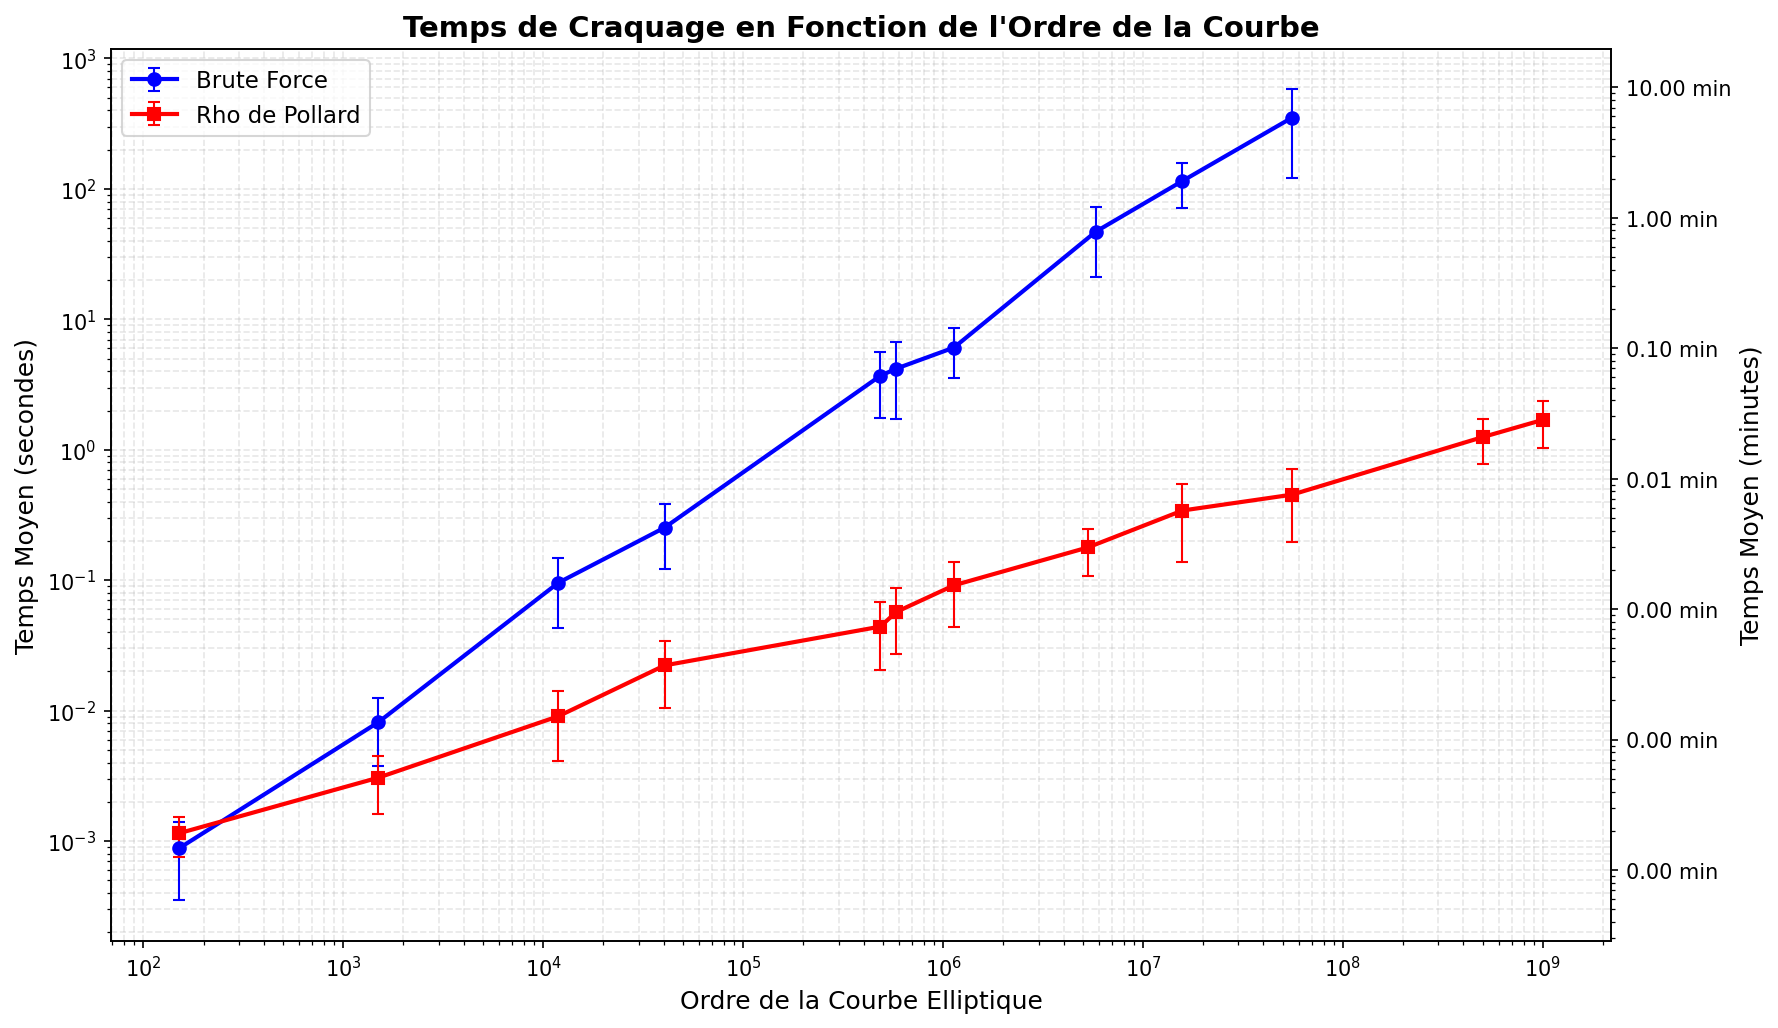
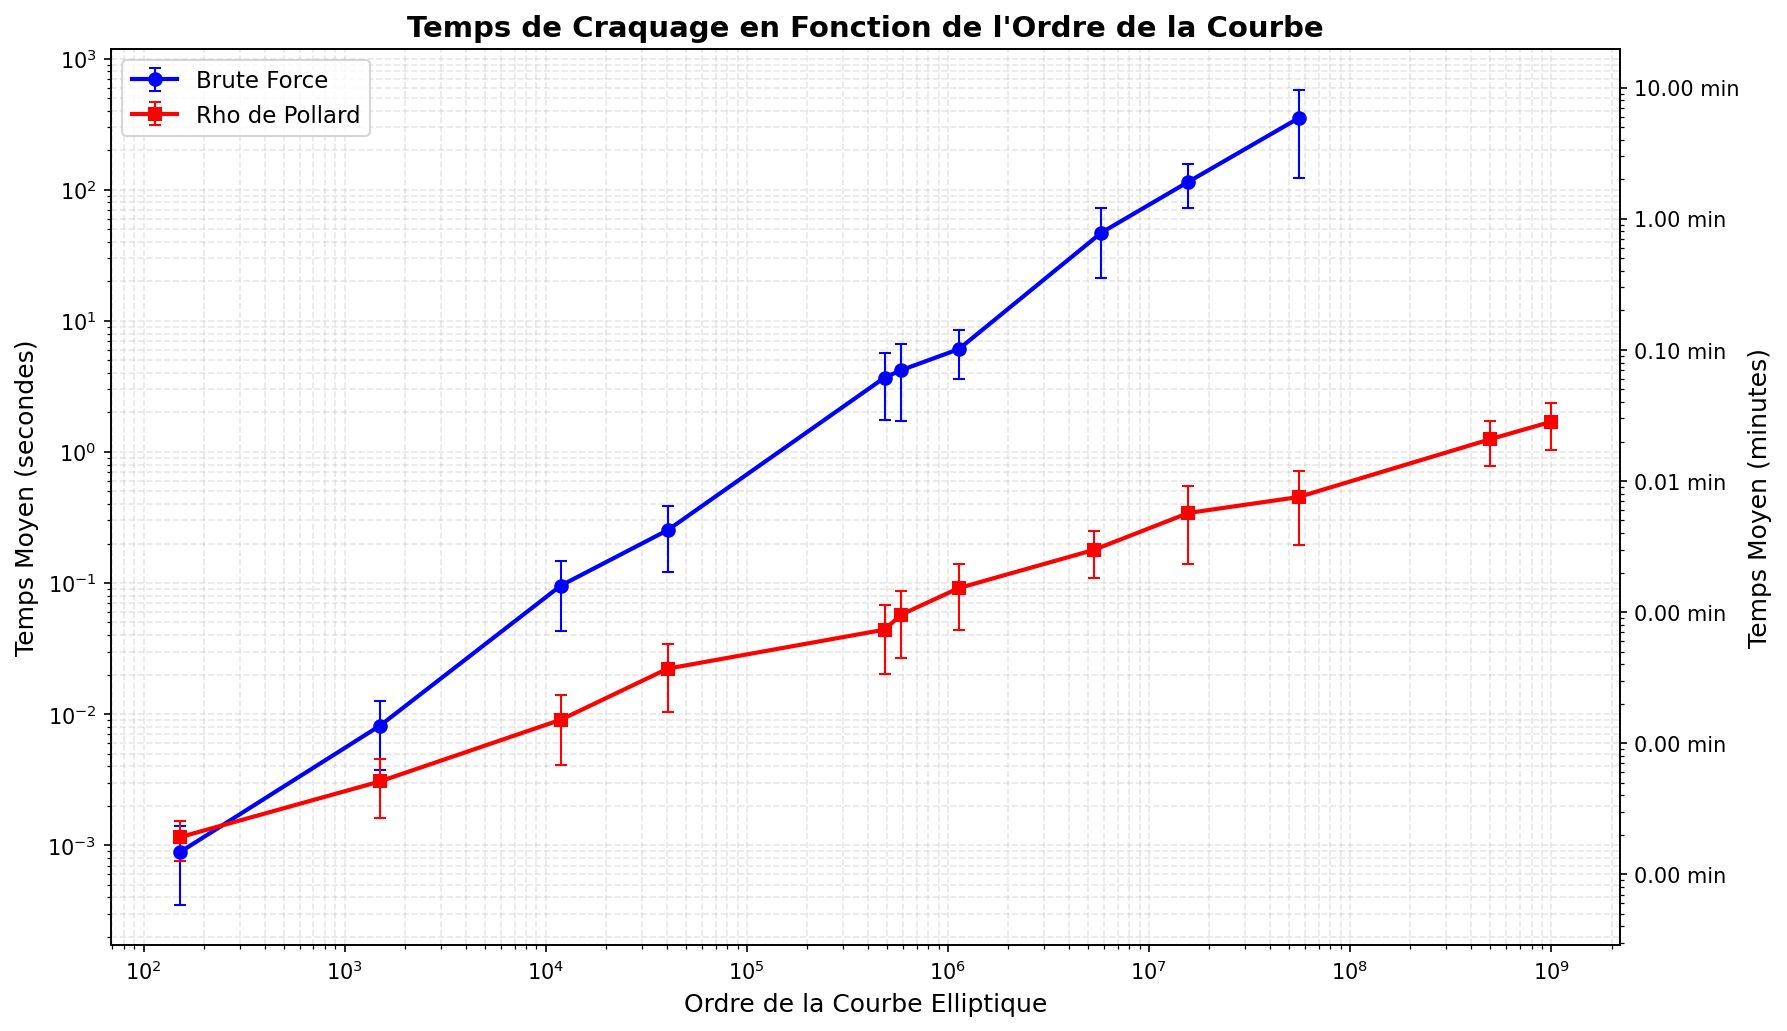
Des trucs adaptés à linux pour pas tout mélanger

diff --git a/crack/module/simulation_temporelles.py b/crack/module/simulation_temporelles.py
@@ -2,6 +2,7 @@ from module.algo_crack.crackEGEC import *
 from module.algo_crack.rho_de_pollard import *
 import csv
 import time
+import platform
 import numpy as np
 
 
@@ -24,7 +25,12 @@ def duree_crack_monte_carlo(CE,algo_crack,N=20):
 
 def crack_perfCE_csv(CE,algo,N=1000): # prendre en compte l'ordre
     tab_sk,tab_P,tab_temps,temps_moyen,u_temps = duree_crack_monte_carlo(CE,algo,N)
-    with open(nom_perfcsv(algo), "a", newline='') as f: # 'w' si pas écrit
+    os_type = platform.system()
+    if os_type == "Linux":
+        nom_fichier = nom_perfcsv_linux(algo)
+    else:
+        nom_fichier = nom_perfcsv(algo)
+    with open(nom_fichier, "a", newline='') as f: # 'w' si pas écrit
         writer = csv.writer(f)
         # writer.writerow(["Courbe Elliptique","Ordre","Échantillon","Temps Moyen","Incertitude"])
         writer.writerow([repr(CE),str(CE.o),str(N),str(temps_moyen),str(u_temps)])

diff --git a/crack/module/plot_perf.py b/crack/module/plot_perf.py
@@ -6,6 +6,7 @@ import pandas as pd
 import numpy as np
 from pathlib import Path
 from matplotlib.ticker import FuncFormatter
+import platform
 
 script_dir = Path(__file__).parent
 
@@ -26,8 +27,12 @@ def _find_perf_dir(start_dir):
 
 def _read_perf_csvs(script_dir):
     perf_dir = _find_perf_dir(script_dir)
-    force_path = perf_dir / 'perf_crack_force_brute.csv'
-    rho_path = perf_dir / 'perf_crack_rho_de_pollard.csv'
+    if platform.system() == "Linux":
+        force_path = perf_dir / 'perf_crack_force_brute_linux.csv'
+        rho_path = perf_dir / 'perf_crack_rho_de_pollard_linux.csv'
+    else:
+        force_path = perf_dir / 'perf_crack_force_brute.csv'
+        rho_path = perf_dir / 'perf_crack_rho_de_pollard.csv'
     try:
         df_force = pd.read_csv(force_path, encoding='latin-1')
         df_rho = pd.read_csv(rho_path, encoding='latin-1')

diff --git a/crack/module/simu_multi_thread.py b/crack/module/simu_multi_thread.py
@@ -92,7 +92,11 @@ def duree_crack_monte_carlo(CE, algo_crack, N=20, progress_callback=None, worker
 def crack_perfCE_csv(CE, algo, N=1000, progress_callback=None, workers=None, update_plot=True):
     temps_moyen, u_temps = duree_crack_monte_carlo(CE, algo, N, progress_callback=progress_callback, workers=workers)
 
-    with open(nom_perfcsv(algo), "a", newline='') as f:
+    os_type = platform.system()
+    if os_type == "Linux":
+        nom_fichier = nom_perfcsv_linux(algo)
+    else: nom_fichier = nom_perfcsv(algo)
+    with open(nom_fichier, "a", newline='') as f:
         writer = csv.writer(f)
         writer.writerow([repr(CE), str(CE.o), str(N), str(temps_moyen), str(u_temps)])
     # Update perf graph after CSV write (disabled if update_plot=False)

diff --git a/crack/module/noms_fichiers.py b/crack/module/noms_fichiers.py
@@ -19,3 +19,6 @@ def nom_CEcsv(): return "CE.csv"
 
 def nom_perfcsv(algo): 
     return f"perf_csv/perf_{algo.__name__}.csv"
+
+def nom_perfcsv_linux(algo): 
+    return f"perf_csv/perf_{algo.__name__}_linux.csv"
